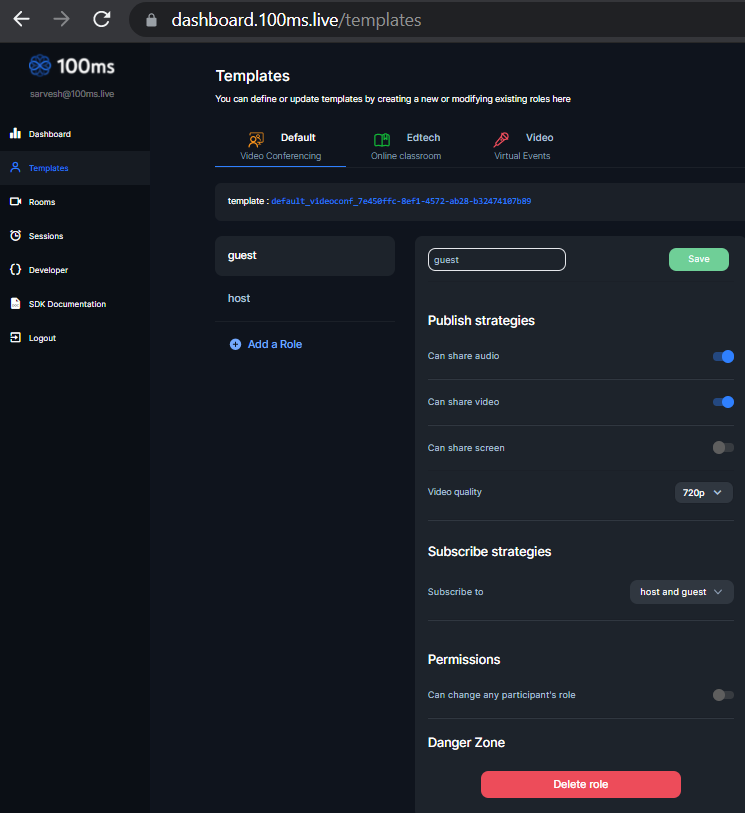
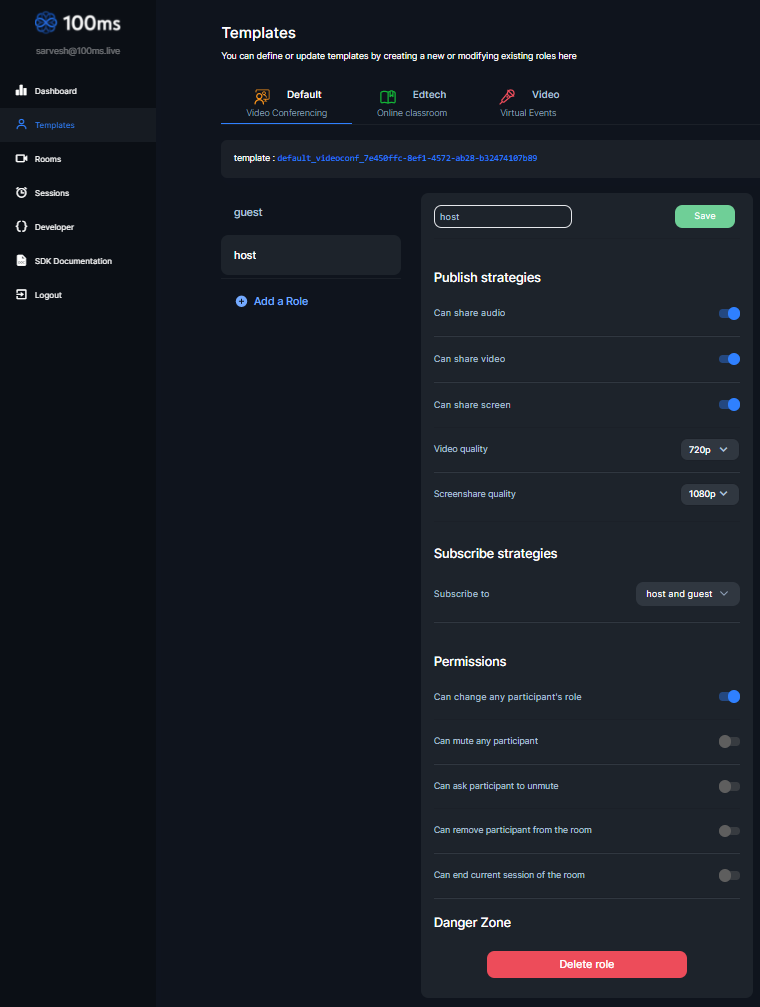
docs: adding more permissions in template

diff --git a/common/templates-and-roles.md b/common/templates-and-roles.md
@@ -1,10 +1,11 @@
 ## Introduction
 
 Template is the blueprint of the room. It defines the settings of the room along with the behavior of users who are part of it.
-Room will inherit the properties from a template that you have specified while creating it. If you have not specified any template then it will pick the default template.
+Room will inherit the properties from a template that you have specified while creating it. If you have not specified any template then it will pick the default template. 
 Each template will be identified by its id. E.g. `default_videoconf_7e450ffc-8ef1-4572-ab28-b32474107b89`
 
-**Note**: As of now templates have only roles section which will be extended in future
+Users can see or modify the templates by visiting [Templates](https://dashboard.100ms.live/templates)
+
 
 ![Template](/docs/v2/template.png)
 
@@ -36,7 +37,11 @@ Whether the role is allowed to do screen share or not
 
 ### Video quality
 
-Quality of the video track which is going to be published by the role. Currently, 4 video qualities `720p`, `480p`, `360p` and `240p` are predefined and the user can select one out of these values.
+Quality of the video track which is going to be published by the role. Currently, 4 video qualities `720p`, `480p`, `360p` and `240p` are predefined and the user can select one out of these values. This option will be visible only if the **Can share video** is enabled.
+
+### Screenshare quality
+
+Quality of the screen which is going to be shared by the role. Currently, 2 video qualities `720p` and `1080p` are predefined and the user can select one out of these values. This option will be visible only if the **Can share screen** is enabled.
 
 ## Subscribe Strategies
 
@@ -54,4 +59,18 @@ Permissions will contain a list of additional privileges that this role will hav
 
 With this permission, user will be able to change the role of the other participant's who are present in the room
 
-> You can modify an existing template to create a new template.
+### Can mute any participant
+With this permission, user will be able to mute any participant's audio and video.
+
+### Can ask participant to unmute
+With this permission, user will be able to ask any participant to unmute their audio and video.
+
+### Can remove participant from the room
+With this permission, user will be able to remove any participant from the current session of the room.
+
+### Can end current session of the room
+With this permission, user will be able to end the current session of the room.
+
+**Note**
+* As of now templates have only roles section which will be extended in future
+* You can modify an existing template to create a new template. 
